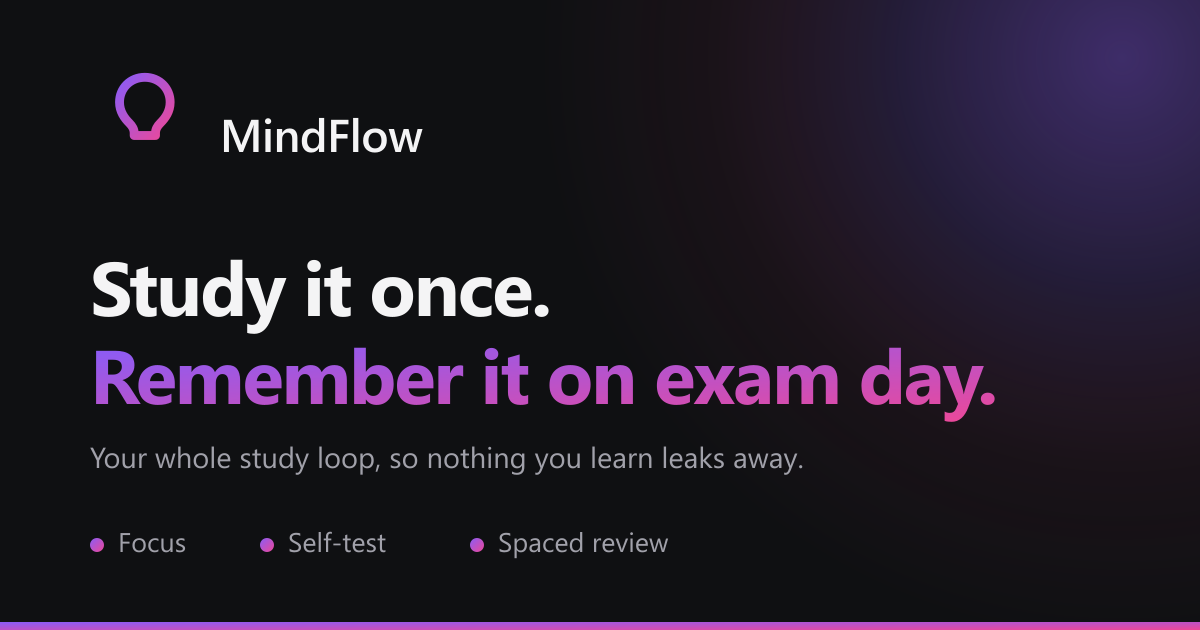
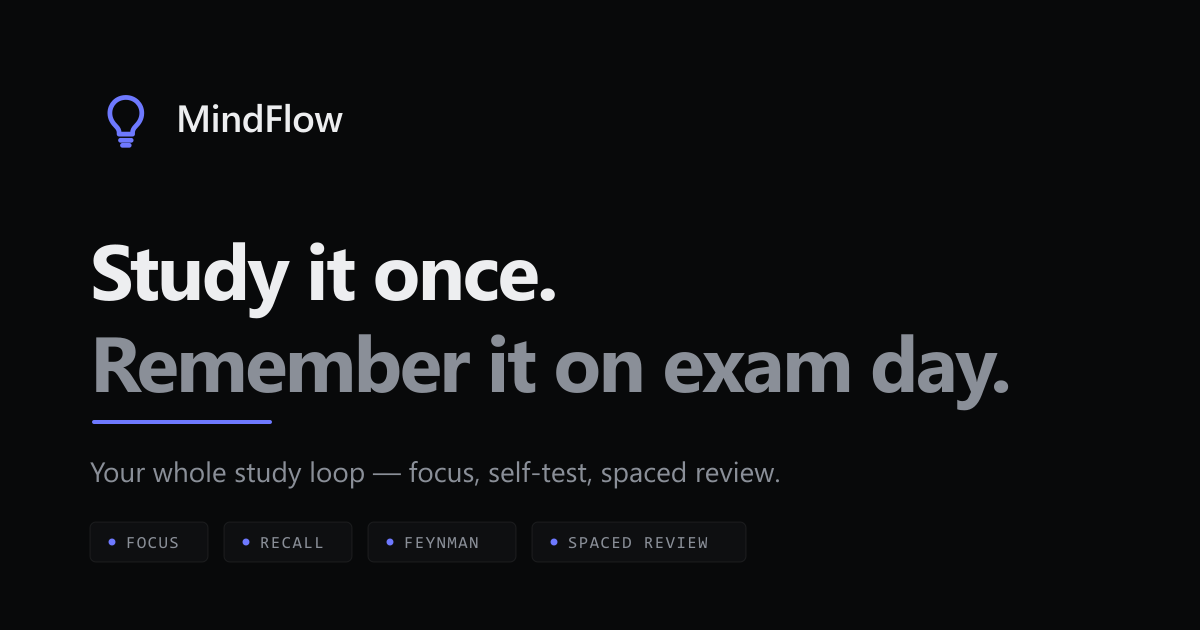
feat(brand): flat brand assets, CLS-proof font fallbacks, styleguide additions
The favicon and OG card catch up with the product: flat accent lightbulb on
the near-black ground - no gradient, no glow - and the social card is
rebuilt in the same language (accent underline as the one chromatic moment,
flat mono capability chips). theme-color and the PWA manifest move to the
token ground color.

CLS guard: metric-matched local fallback faces (size-adjust/ascent/descent
overrides against Arial and Consolas) slot in behind Geist in every stack,
so text set while the webfonts load occupies the same space it will after
the swap - font-display: swap without the layout shift.

/design gains the flow primitives: StepRail with a live step switcher,
Progress, and SaveButton walking its idle - saving - saved lifecycle.

diff --git a/src/pages/DesignSystem.jsx b/src/pages/DesignSystem.jsx
@@ -16,6 +16,9 @@ import {
   Skeleton,
   SkeletonText,
   toast,
+  Progress,
+  StepRail,
+  SaveButton,
 } from '../components/ui';
 import {
   PageTransition,
@@ -271,6 +274,19 @@ const DesignSystem = () => {
           />
         </Section>
 
+        <Section title="Flow primitives" note="step rail · progress · save morph">
+          <StepRailDemo />
+          <div className="mt-6 max-w-md">
+            <Progress value={ring} label="Demo progress" />
+            <p className="mt-2 font-mono text-micro text-secondary">
+              Progress — thin scaleX line (blurt timer drain, study position)
+            </p>
+          </div>
+          <div className="mt-6">
+            <SaveButtonDemo />
+          </div>
+        </Section>
+
         <Section title="Overlays">
           <div className="flex flex-wrap items-center gap-3">
             <Button variant="secondary" onClick={() => setModalOpen(true)}>
@@ -378,6 +394,49 @@ const DesignSystem = () => {
           </p>
         </footer>
       </div>
+    </div>
+  );
+};
+
+/** StepRail with a live step switcher - the underline slides via layoutId. */
+const StepRailDemo = () => {
+  const [step, setStep] = useState('source');
+  const steps = [
+    { id: 'source', label: 'Source' },
+    { id: 'blurt', label: 'Blurt' },
+    { id: 'analysis', label: 'Analysis' },
+  ];
+  return (
+    <div>
+      <StepRail steps={steps} active={step} />
+      <div className="mt-4 flex gap-2">
+        {steps.map((s) => (
+          <Button key={s.id} variant="secondary" size="sm" mono onClick={() => setStep(s.id)}>
+            {s.label}
+          </Button>
+        ))}
+      </div>
+    </div>
+  );
+};
+
+/** SaveButton walking its own lifecycle on click. */
+const SaveButtonDemo = () => {
+  const [state, setState] = useState('idle');
+  const run = () => {
+    if (state !== 'idle') return;
+    setState('saving');
+    setTimeout(() => {
+      setState('saved');
+      setTimeout(() => setState('idle'), 1400);
+    }, 1200);
+  };
+  return (
+    <div className="flex items-center gap-4">
+      <SaveButton state={state} onClick={run}>
+        Save settings
+      </SaveButton>
+      <span className="font-mono text-micro text-tertiary">label → spinner → check</span>
     </div>
   );
 };

diff --git a/src/index.css b/src/index.css
@@ -11,6 +11,26 @@
 @tailwind components;
 @tailwind utilities;
 
+/* CLS guard: metric-matched local fallbacks so text set in Arial while Geist
+   loads (font-display: swap) occupies the same space it will after the swap.
+   Overrides approximate Geist's vertical metrics against Arial's. */
+@font-face {
+  font-family: 'Geist Fallback';
+  src: local('Arial');
+  size-adjust: 104%;
+  ascent-override: 96%;
+  descent-override: 24%;
+  line-gap-override: 0%;
+}
+@font-face {
+  font-family: 'Geist Mono Fallback';
+  src: local('Consolas'), local('Courier New');
+  size-adjust: 108%;
+  ascent-override: 96%;
+  descent-override: 24%;
+  line-gap-override: 0%;
+}
+
 @layer base {
   * {
     margin: 0;

diff --git a/tailwind.config.js b/tailwind.config.js
@@ -62,9 +62,9 @@ export default {
       },
 
       fontFamily: {
-        sans: ['Geist', 'ui-sans-serif', 'system-ui', 'sans-serif'],
-        display: ['Geist', 'ui-sans-serif', 'system-ui', 'sans-serif'],
-        mono: ['"Geist Mono"', 'ui-monospace', '"JetBrains Mono"', 'SFMono-Regular', 'monospace'],
+        sans: ['Geist', '"Geist Fallback"', 'ui-sans-serif', 'system-ui', 'sans-serif'],
+        display: ['Geist', '"Geist Fallback"', 'ui-sans-serif', 'system-ui', 'sans-serif'],
+        mono: ['"Geist Mono"', '"Geist Mono Fallback"', 'ui-monospace', 'SFMono-Regular', 'monospace'],
       },
 
       fontSize: {

diff --git a/src/styles/tokens.css b/src/styles/tokens.css
@@ -76,6 +76,6 @@
   --shadow-modal: 0 16px 48px rgba(0, 0, 0, 0.5);
 
   /* ------------------------------------------------------------ fonts -- */
-  --font-sans: 'Geist', ui-sans-serif, system-ui, -apple-system, sans-serif;
-  --font-mono: 'Geist Mono', ui-monospace, 'JetBrains Mono', SFMono-Regular, monospace;
+  --font-sans: 'Geist', 'Geist Fallback', ui-sans-serif, system-ui, -apple-system, sans-serif;
+  --font-mono: 'Geist Mono', 'Geist Mono Fallback', ui-monospace, SFMono-Regular, monospace;
 }

diff --git a/index.html b/index.html
@@ -11,7 +11,7 @@
 
     <!-- PWA -->
     <link rel="manifest" href="/manifest.webmanifest" />
-    <meta name="theme-color" content="#0f1012" />
+    <meta name="theme-color" content="#08090A" />
     <link rel="icon" type="image/svg+xml" href="/icon.svg" />
     <link rel="apple-touch-icon" href="/icon.svg" />
 
